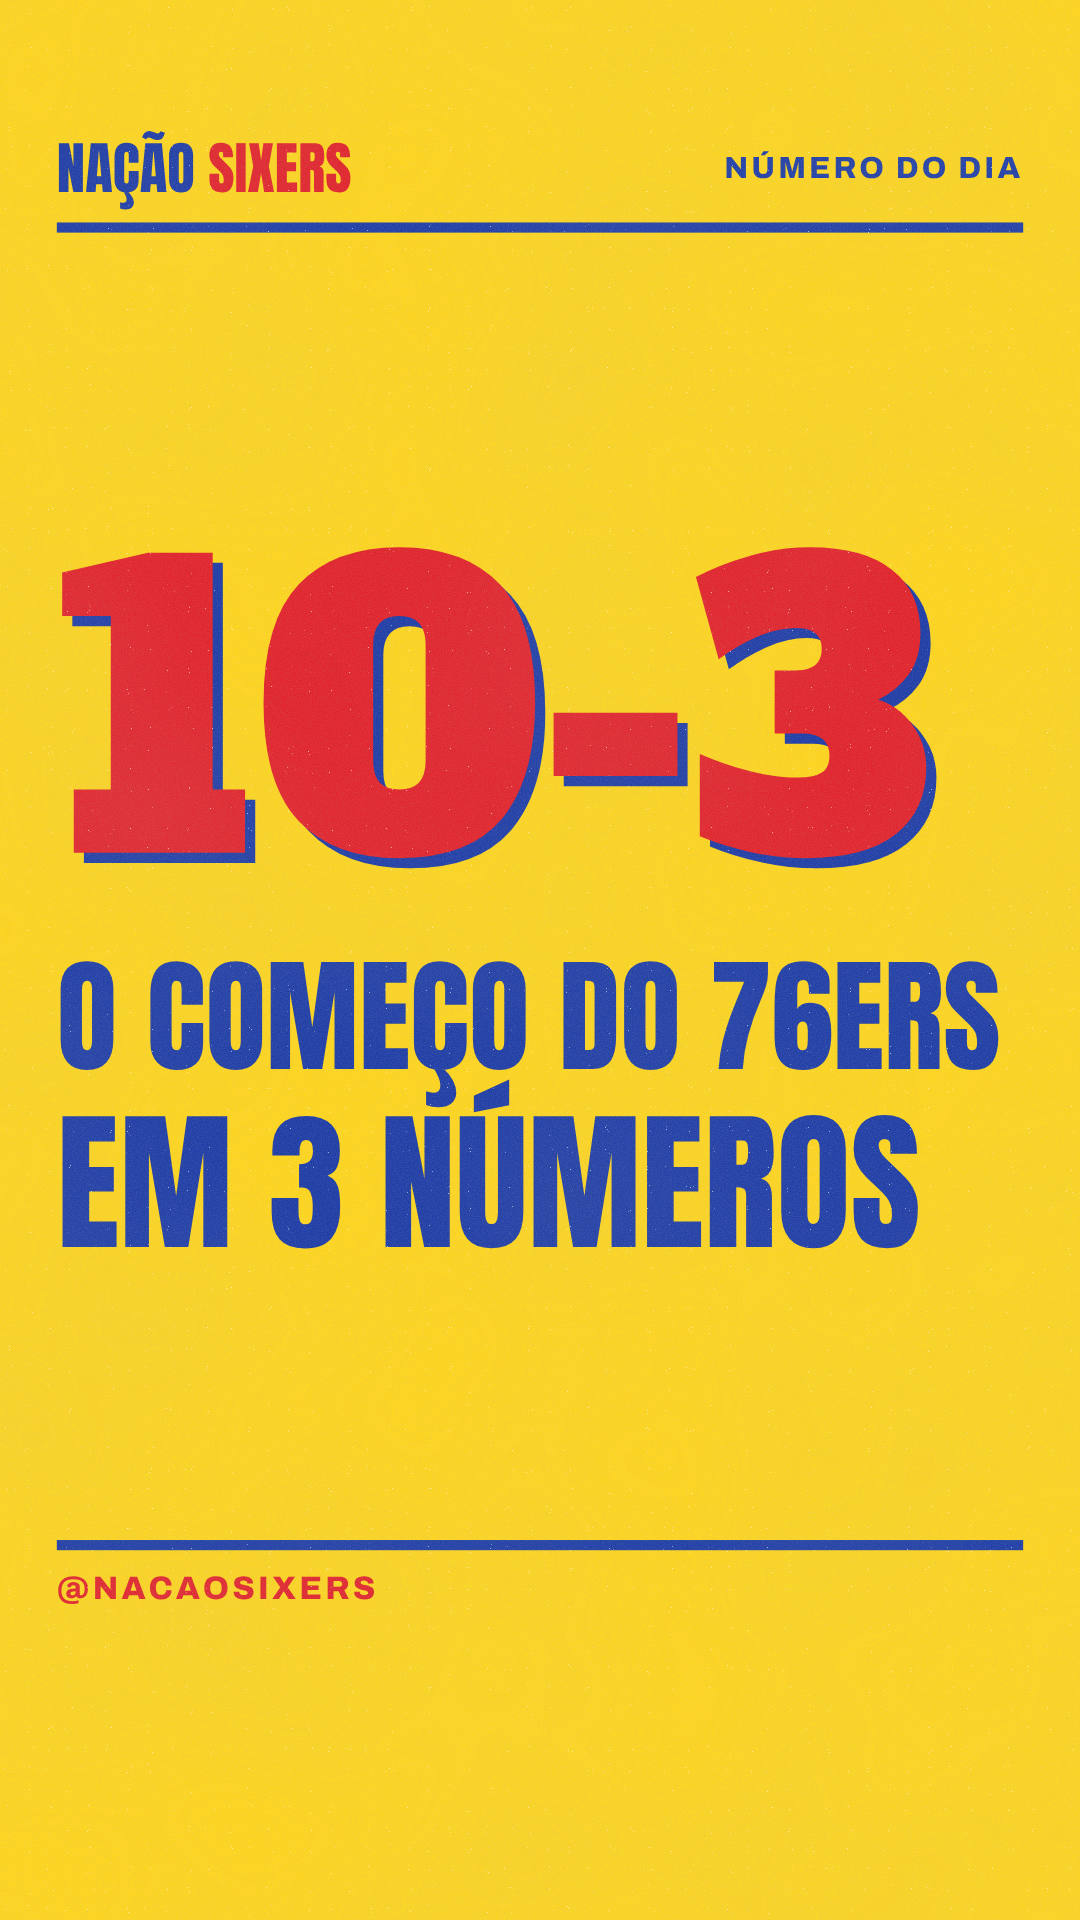
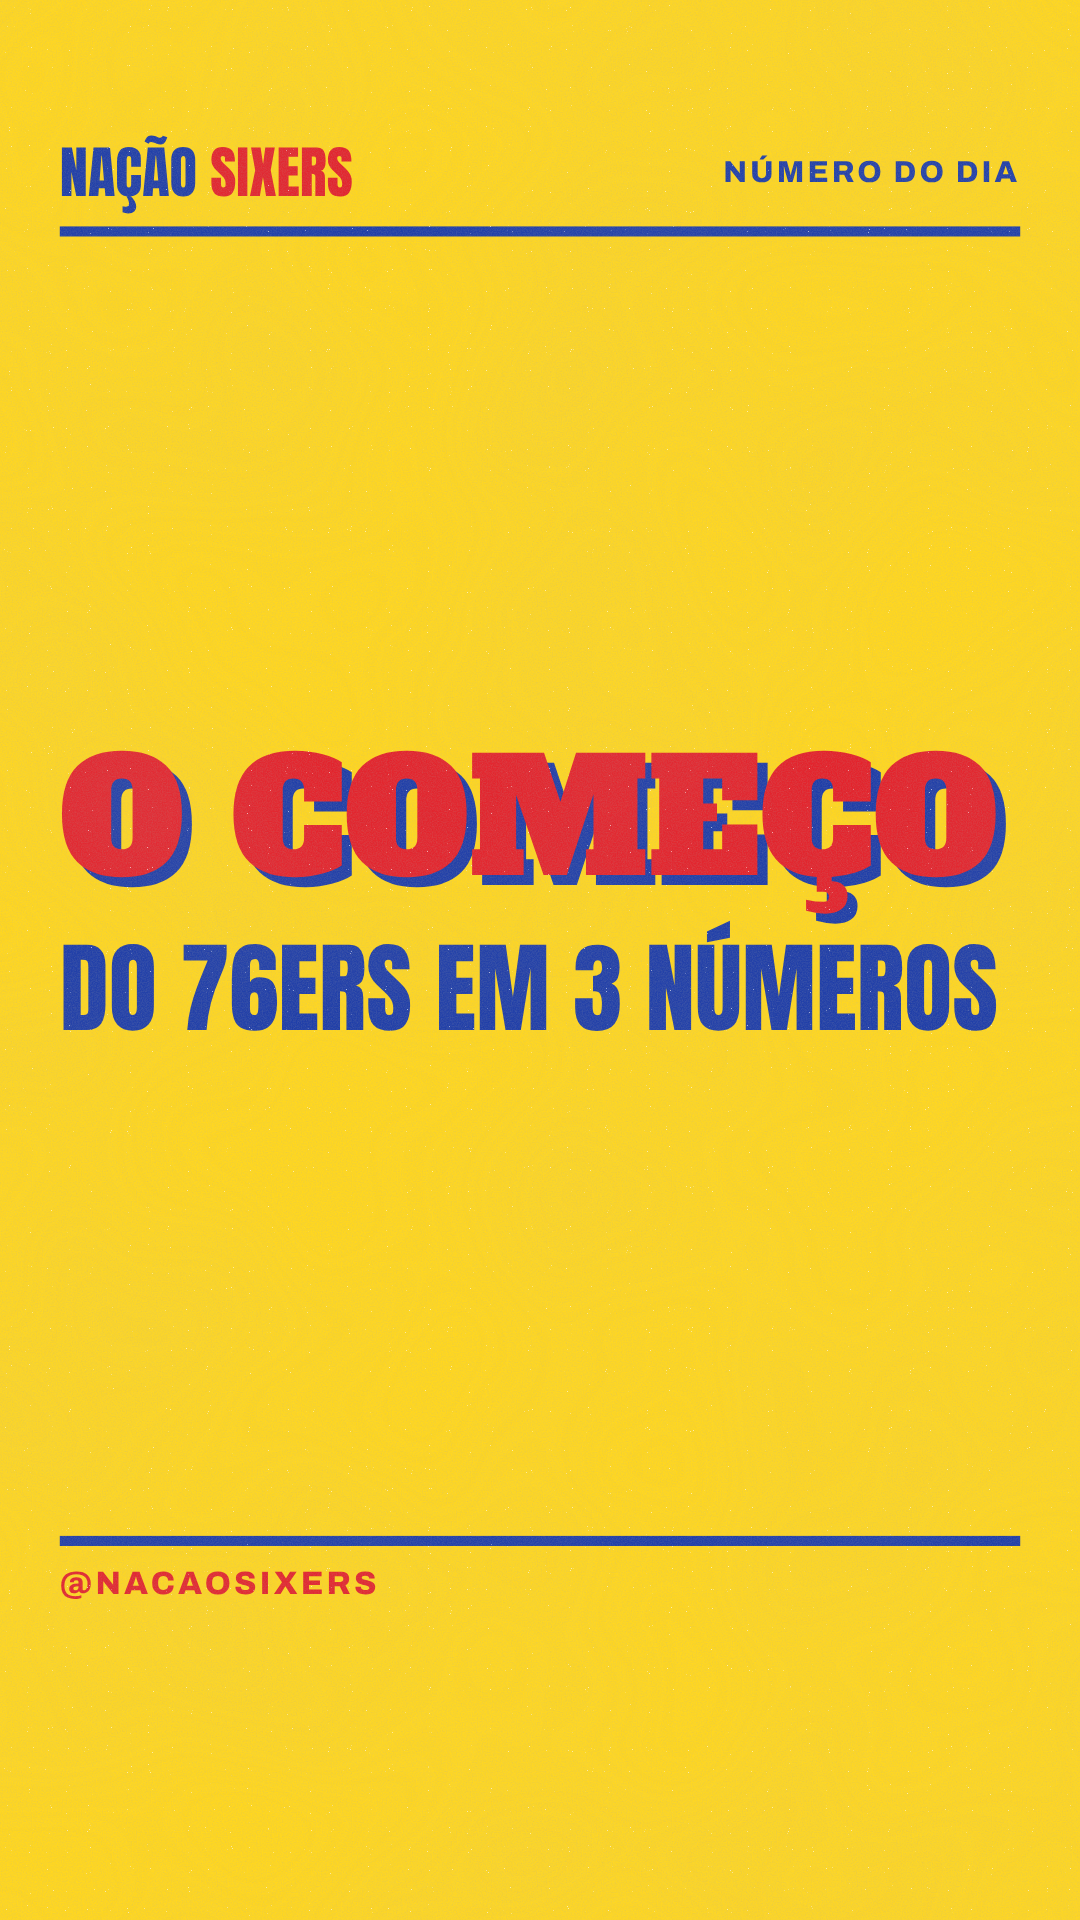
Promoção: resultado do teste, próxima rodada no TikTok, item Para promover e manual
Claude-Session: https://claude.ai/code/session_019spEdeAtGW5bfaQr5mHnvk

Changed region(s): [[0.0306, 0.2812, 0.9472, 0.6562], [0.0611, 0.0625, 0.9472, 0.125], [0.0611, 0.7812, 0.9472, 0.8438]]

diff --git a/docs/index.html b/docs/index.html
@@ -310,42 +310,35 @@ Perfil de fã, sem vínculo com o Philadelphia 76ers ou com a NBA.
   <!-- IMPULSIONAR -->
   <section id="impulso" class="imp">
     <style>.imp ol,.imp ul{margin:0;padding-left:20px;display:flex;flex-direction:column;gap:6px;font-size:15px}.imp .card h3{font-family:var(--display);font-weight:400;font-size:26px;text-transform:uppercase;line-height:1.05;color:var(--blue)}</style>
-    <div class="sec-head"><h2>Impulsionar</h2><span>Depois do balanço de segunda, 16/11</span></div>
-    <p class="lead">Pague só para levar mais longe um reel que já foi bem sozinho. Dá para testar o mesmo vídeo no Instagram e no TikTok ao mesmo tempo e, depois, deixar o dinheiro só na rede que trouxe seguidor mais barato.</p>
+    <div class="sec-head"><h2>Impulsionar</h2><span>Resultado do teste e próxima rodada</span></div>
+    <p class="lead">Teste de 13/11: no TikTok, R$ 24 em 12 horas trouxeram 51 seguidores, R$ 0,47 cada. No Instagram o impulso quase não rodou: 3 visualizações e nenhuma visita ao perfil. O dinheiro vai para o TikTok.</p>
     <div class="rot">
-      <div class="card"><span class="pill manual">Antes de pagar</span><h3>Regras do teste</h3><ul>
-        <li>Escolha o reel com mais compartilhamentos e salvamentos nas primeiras 48 horas. O bloco Semana aponta qual foi.</li>
-        <li>Use reel do kit: a trilha é original, então o áudio não é silenciado e o anúncio não é recusado por música. Não impulsione post com música da biblioteca do app.</li>
-        <li>Anote quantos seguidores a conta tem antes de começar.</li>
-        <li>Teto: R$ 1 por seguidor novo. Passou disso depois de 2 dias, pause.</li>
+      <div class="card"><span class="pill agendado">TikTok</span><h3>Próxima rodada</h3><ol>
+        <li>Escolha o vídeo do item <b>Para promover no TikTok</b>, na seção Hoje. O motor indica um por dia.</li>
+        <li>No vídeo: três pontinhos &gt; <b>Promover</b> (ou <b>Promover novamente</b> no pedido antigo).</li>
+        <li>Meta: <b>Mais seguidores</b>. Público: <b>Nação NBA</b>, que já está salvo.</li>
+        <li>R$ 25 por 24 horas, começando entre 18h e 20h, quando a torcida está online. Até 2 vídeos por pedido, sempre os mais novos.</li>
+        <li>Teto da semana: R$ 100 até o balanço de segunda que vem.</li>
+      </ol></div>
+      <div class="card"><span class="pill manual">Depois de cada pedido</span><h3>Como ler</h3><ul>
+        <li>Olhe o <b>custo por seguidor</b> na tela do pedido.</li>
+        <li>Até R$ 0,50: ótimo, repita com o vídeo do dia.</li>
+        <li>De R$ 0,50 a R$ 0,80: mantenha, mas troque o vídeo.</li>
+        <li>Acima de R$ 0,80: pare e me mande o print.</li>
+        <li>Veja também <b>Assistiram por 2 segundos</b>: era 20%. Se passar de 35%, o gancho novo funcionou.</li>
       </ul></div>
-      <div class="card"><span class="pill agendado">Instagram</span><h3>Turbinar</h3><ol>
-        <li>No app, abra o reel e toque em <b>Turbinar</b>, embaixo do vídeo. Se o botão estiver cinza, esse post não pode ser turbinado: escolha outro.</li>
-        <li>Objetivo: <b>Mais visitas ao perfil</b>.</li>
-        <li>Público: <b>Criar seu próprio</b>. Local: Brasil. Idade: 18 a 44. Interesses: digite 76ers, NBA e basquete e marque o que aparecer. Salve como "Nação NBA" para usar de novo.</li>
-        <li>Orçamento: R$ 10 a R$ 15 por dia. Duração: 5 dias.</li>
-        <li>Escolha a forma de pagamento que o app oferecer e toque em <b>Turbinar publicação</b>. O anúncio passa por uma análise antes de rodar.</li>
-        <li>Acompanhe em <b>Painel profissional &gt; Anúncios</b>: visitas ao perfil e custo por resultado.</li>
-      </ol></div>
-      <div class="card"><span class="pill agendado">TikTok</span><h3>Promover</h3><ol>
-        <li>Abra o vídeo no seu perfil, toque nos <b>três pontinhos</b> e em <b>Promover</b>. Também fica em Perfil &gt; menu &gt; <b>TikTok Studio</b> &gt; Promover.</li>
-        <li>Objetivo: <b>Mais seguidores</b>.</li>
-        <li>Público: <b>Personalizado</b>. Idade: 18 a 44. Interesses: esportes e, se aparecer, basquete.</li>
-        <li>Orçamento: R$ 10 a R$ 15 por dia. Duração: 5 dias.</li>
-        <li>Pague do jeito que o app oferecer e confirme. Também passa por análise.</li>
-        <li>Acompanhe na tela do Promover, que já mostra seguidores ganhos e o custo de cada um.</li>
-      </ol></div>
+      <div class="card"><span class="pill manual">Instagram</span><h3>Pausa</h3><ul>
+        <li>Confira o status do impulso em <b>Painel profissional &gt; Anúncios</b>. Se estiver Em análise há mais de um dia ou Rejeitado, cancele.</li>
+        <li>Sem gastar mais lá por enquanto: o perfil ainda alcança 5 a 15 pessoas por post, e pagar não resolve isso agora.</li>
+        <li>Voltamos a testar com um reel quando o TikTok passar de 500 seguidores.</li>
+      </ul></div>
+      <div class="card"><span class="pill publicado">Vídeos</span><h3>O que mudou</h3><ul>
+        <li>O TikTok mostrou que 80% saíam nos 2 primeiros segundos: o primeiro quadro estava quase vazio, porque o texto ainda estava surgindo.</li>
+        <li>Agora a primeira cena aparece inteira desde o início e dura 3 segundos, como gancho.</li>
+        <li>Os vídeos caíram de 30 para 20 segundos, com menos texto por cena em vez de cenas mais rápidas.</li>
+      </ul></div>
       <div class="card"><span class="pill publicado">X</span><h3>Premium, sem anúncio</h3><ul>
-        <li>Confira se o selo do Premium aparece no @nacaosixers. Ele vale só na conta assinante.</li>
-        <li>Não pague o impulso do X: no lançamento, o menor pacote custava US$ 50 por 11 mil a 27 mil visualizações. Caro para o seguidor que traz.</li>
-        <li>Use o que o Premium já dá: suas respostas aparecem antes das outras. Na noite de jogo, separe 10 minutos para responder posts de perfis grandes (@sixers, @NBA, @NBABrasil) com um número da Cola do jogo. Uma resposta boa por post.</li>
-      </ul></div>
-      <div class="card"><span class="pill manual">Depois de 5 dias</span><h3>Como ler</h3><ul>
-        <li>Custo por seguidor = valor gasto dividido pelos seguidores novos no período.</li>
-        <li>Abaixo de R$ 0,50: ótimo, dá para dobrar o orçamento.</li>
-        <li>Entre R$ 0,50 e R$ 1: mantenha e teste outro reel.</li>
-        <li>Acima de R$ 1: pare nessa rede.</li>
-        <li>Me mande os números no chat e eu ajusto o motor para fazer mais do formato que funcionou.</li>
+        <li>Nada de impulso pago no X. Na noite de jogo, 10 minutos respondendo @sixers, @NBA e @NBABrasil com um número da Cola do jogo.</li>
       </ul></div>
     </div>
   </section>

diff --git a/docs/data/central.js b/docs/data/central.js
@@ -1,6 +1,6 @@
 /* Dados da Central Nação Sixers. O motor (tarefa agendada) reescreve este arquivo a cada execução, sempre neste formato. */
 window.CENTRAL = {
- "atualizado": "sábado, 14/11, às 8h10",
+ "atualizado": "sábado, 14/11, às 8h50",
  "motor": {
   "ligado": true,
   "texto": "Ligado. Última rodada: manhã, 8h10."
@@ -37,11 +37,11 @@ window.CENTRAL = {
     "status": "agendado",
     "quando": "18h no TikTok; 19h30 no Instagram (Reels) e no X",
     "img": "img/hoje/reel-comeco-3-numeros.png",
-    "arquivo": "reel-comeco-3-numeros.mp4",
+    "arquivo": "reel-comeco-3-numeros-v4.mp4",
     "x": "O começo do 76ers em 3 números: 10-3, invicto nos jogos apertados (8-0) e 26,7 pontos por jogo de Tyrese Maxey. 🔎\n\nDomingo tem 76ers x Pacers, 15h de Brasília.",
     "ig": "O começo do 76ers em 3 números. 🔎\n\n10-3, a segunda melhor campanha do Leste. 8-0 nos jogos apertados. E 26,7 pontos por jogo de Tyrese Maxey.\n\nDomingo tem 76ers x Pacers, 15h de Brasília. Segue a @nacaosixers para não perder nenhum jogo.\n\nFonte: Land of Basketball, Crossing Broad e FanSided.\n\n#Sixers #76ers #NBABrasil #NBA",
-    "obs": "Reel semanal do número do dia. 30 segundos, capa_ms 4120. Campanha e médias do Land of Basketball.",
-    "link": "https://raw.githubusercontent.com/nacaosixers/cartazes/main/dias/2026-11-14/reel-comeco-3-numeros.mp4",
+    "obs": "Refeito às 8h40 com o gancho novo: primeira cena inteira desde o início, 19 segundos em vez de 30.",
+    "link": "https://raw.githubusercontent.com/nacaosixers/cartazes/main/dias/2026-11-14/reel-comeco-3-numeros-v4.mp4",
     "linkTexto": "Ver o vídeo"
    },
    {
@@ -49,22 +49,72 @@ window.CENTRAL = {
     "status": "agendado",
     "quando": "21h30, só no TikTok",
     "img": "img/hoje/tiktok-explicando-76ers.png",
-    "arquivo": "tiktok-explicando-76ers.mp4",
-    "obs": "Formato só do TikTok, para quem está chegando: Maxey (26,7 pontos), Brown (21,2), Embiid (17,9 e 8,8 rebotes), LeBron (6,5 assistências), Edgecombe (12,9 no segundo ano) e Simons (42,7% de três). Médias do Land of Basketball. Legenda: Explicando o 76ers: quem é quem no time. Chegou agora? Segue a Nação.",
-    "link": "https://raw.githubusercontent.com/nacaosixers/cartazes/main/dias/2026-11-14/tiktok-explicando-76ers.mp4",
+    "arquivo": "tiktok-explicando-76ers-v4.mp4",
+    "obs": "Refeito às 8h40 com o gancho novo: 20 segundos em vez de 33. Formato para quem está chegando: Maxey, Embiid, LeBron, Brown, Edgecombe e Simons.",
+    "link": "https://raw.githubusercontent.com/nacaosixers/cartazes/main/dias/2026-11-14/tiktok-explicando-76ers-v4.mp4",
+    "linkTexto": "Ver o vídeo"
+   },
+   {
+    "tipo": "Para promover no TikTok",
+    "status": "manual",
+    "quando": "hoje, depois das 21h30",
+    "img": "img/hoje/tiktok-explicando-76ers.png",
+    "arquivo": "tiktok-explicando-76ers-v4.mp4",
+    "obs": "Promover > Mais seguidores > público Nação NBA > R$ 25 por 24 horas, com dois vídeos: Explicando o 76ers (21h30) e O começo em 3 números (18h). Por quê: são os primeiros com o gancho novo, e o Explicando é feito para quem está chegando.",
+    "link": "https://raw.githubusercontent.com/nacaosixers/cartazes/main/dias/2026-11-14/tiktok-explicando-76ers-v4.mp4",
     "linkTexto": "Ver o vídeo"
    }
   ]
  },
  "cola": null,
  "jogos": [
-  {"d": "DOM 15/11", "j": "76ers x Pacers", "h": "15h", "o": ""},
-  {"d": "SEG 16/11", "j": "Nets x 76ers", "h": "21h30", "o": ""},
-  {"d": "QUA 18/11", "j": "Magic x 76ers", "h": "21h", "o": ""},
-  {"d": "SÁB 21/11", "j": "76ers x Bucks", "h": "15h", "o": ""},
-  {"d": "SEG 23/11", "j": "76ers x Trail Blazers", "h": "21h", "o": ""},
-  {"d": "QUA 25/11", "j": "76ers x Heat", "h": "19h", "o": ""},
-  {"d": "SEX 27/11", "j": "Pacers x 76ers", "h": "21h30", "o": ""},
-  {"d": "SÁB 28/11", "j": "Rockets x 76ers", "h": "22h30", "o": ""}
+  {
+   "d": "DOM 15/11",
+   "j": "76ers x Pacers",
+   "h": "15h",
+   "o": ""
+  },
+  {
+   "d": "SEG 16/11",
+   "j": "Nets x 76ers",
+   "h": "21h30",
+   "o": ""
+  },
+  {
+   "d": "QUA 18/11",
+   "j": "Magic x 76ers",
+   "h": "21h",
+   "o": ""
+  },
+  {
+   "d": "SÁB 21/11",
+   "j": "76ers x Bucks",
+   "h": "15h",
+   "o": ""
+  },
+  {
+   "d": "SEG 23/11",
+   "j": "76ers x Trail Blazers",
+   "h": "21h",
+   "o": ""
+  },
+  {
+   "d": "QUA 25/11",
+   "j": "76ers x Heat",
+   "h": "19h",
+   "o": ""
+  },
+  {
+   "d": "SEX 27/11",
+   "j": "Pacers x 76ers",
+   "h": "21h30",
+   "o": ""
+  },
+  {
+   "d": "SÁB 28/11",
+   "j": "Rockets x 76ers",
+   "h": "22h30",
+   "o": ""
+  }
  ]
 };

diff --git a/playbook/LEIA-PRIMEIRO.md b/playbook/LEIA-PRIMEIRO.md
@@ -29,7 +29,7 @@ Você é o editor automático da **Nação Sixers** (@nacaosixers no X e no Inst
 ## Kit (gera cartazes e reels)
 
 - `python kit/cartaz.py ...` gera cartaz 1080x1350. Tipos: prejogo, placar, direto, manchete, lista, agenda, cartaz, numero. Uso completo no topo do arquivo. Primeira execução baixa fontes via npm; o Chromium do Playwright já está instalado (não rode `playwright install`).
-- `python kit/reel.py roteiro.json saida.mp4` gera reel 1080x1920 com trilha original de fundo (~1,5 minuto para 25 s). Formato do roteiro no topo do arquivo. A duração de cada cena sai sozinha pelo tamanho do texto, para dar tempo de ler: não force cenas curtas. Máximo de 4 cenas mais a de "Segue a Nação". Gera também `saida.capa.png` para conferir.
+- `python kit/reel.py roteiro.json saida.mp4` gera reel 1080x1920 com trilha original de fundo. Formato do roteiro no topo do arquivo. **A cena 1 é o gancho**: aparece inteira no primeiro quadro e dura uns 3 segundos; até 9 palavras, uma promessa ou pergunta ("O começo do 76ers em 3 números", "Só fã raiz acerta"), nunca repetir o número da cena seguinte. Demais cenas: até 16 palavras cada (menos texto, não mais tempo). Vídeo inteiro: 15 a 22 segundos, no máximo 4 cenas mais o "Segue a Nação". Se o kit imprimir AVISO de palavras, corte o texto e gere de novo. Gera também `saida.capa.png` para conferir.
 - `python kit/story.py cartaz.png story.png` transforma um cartaz em 1080x1920, para story do Instagram e carrossel do TikTok.
 - Confira todo PNG (e a capa de cada reel, `saida.capa.png`, que é o mesmo quadro do capa_ms) com a ferramenta de leitura antes de publicar. Cortado ou sobreposto: encurte e gere de novo uma vez.
 
@@ -75,6 +75,13 @@ Nunca use shareNow. Nunca edite nem apague post que não foi você que criou na 
   - "Você sabia?": uma curiosidade histórica do 76ers, com duas fontes.
   - "Explicando o 76ers": para quem está chegando agora, quem é quem no elenco, em 3 cenas.
 - Legenda com o que as pessoas buscam: "resultado 76ers hoje", "onde assistir 76ers", nome dos jogadores. 3 a 5 hashtags entre #Sixers #76ers #NBABrasil #NBA #basquete.
+
+## Promoção paga (o Rodrigo paga no app; o motor só indica)
+
+Teste de 13/11 no TikTok: R$ 24 em 12 horas, 51 seguidores, R$ 0,47 cada, curtidas acima da média. Mas só 20% assistiram 2 segundos e ninguém viu até o fim: por isso o gancho na cena 1. No Instagram o impulso quase não rodou: sem indicação de Instagram por enquanto.
+
+Na rodada da manhã, escolha **um vídeo do TikTok para promover hoje** e coloque como item da central: `list_posts` só do canal TikTok, status sent, últimos 2 dias, `includeMetrics: true`, `first: 6`. Prefira o que tiver mais visualizações e curtidas (as métricas do Buffer atrasam até 24 h). Sem números, escolha o vídeo mais novo de formato próprio do TikTok (Adivinha quem é, Você sabia?, Explicando) ou o placar em vídeo do último jogo. Nunca indique vídeo com mais de 3 dias.
+Item: `{"tipo": "Para promover no TikTok", "status": "manual", "quando": "hoje, entre 18h e 20h", "img": capa, "obs": "Promover > Mais seguidores > público Nação NBA > R$ 25 por 24 horas. Por quê: [motivo com o número]", "link": link raw do vídeo, "linkTexto": "Ver o vídeo"}`.
 
 ## Objetivo de longo prazo: ser notado pelo 76ers
 

diff --git a/playbook/manha.md b/playbook/manha.md
@@ -36,4 +36,6 @@
 
 8. **Segunda-feira, números da semana:** `get_aggregated_post_metrics` dos últimos 7 dias por canal e `list_posts` com `includeMetrics` para achar os 3 posts com mais alcance ou interação. Escreva na central o bloco `semana`: `{"titulo": "Semana de [dd/mm] a [dd/mm]", "itens": [{"rotulo": "Posts", "valor": "..."}, {"rotulo": "Impressões", "valor": "..."}, ...], "destaques": ["formato e tema do post, com o número", ...], "ajuste": "uma frase sobre o que fazer mais nesta semana"}`. Use o que funcionou para escolher os formatos da semana.
 
-9. **Feche:** registro e central (os dois lugares). Mensagem ao Rodrigo só em caso de erro.
+9. **Para promover:** escolha o vídeo do TikTok do dia para o Rodrigo promover (veja "Promoção paga" no LEIA-PRIMEIRO) e ponha o item na central.
+
+10. **Feche:** registro e central (os dois lugares). Mensagem ao Rodrigo só em caso de erro.
